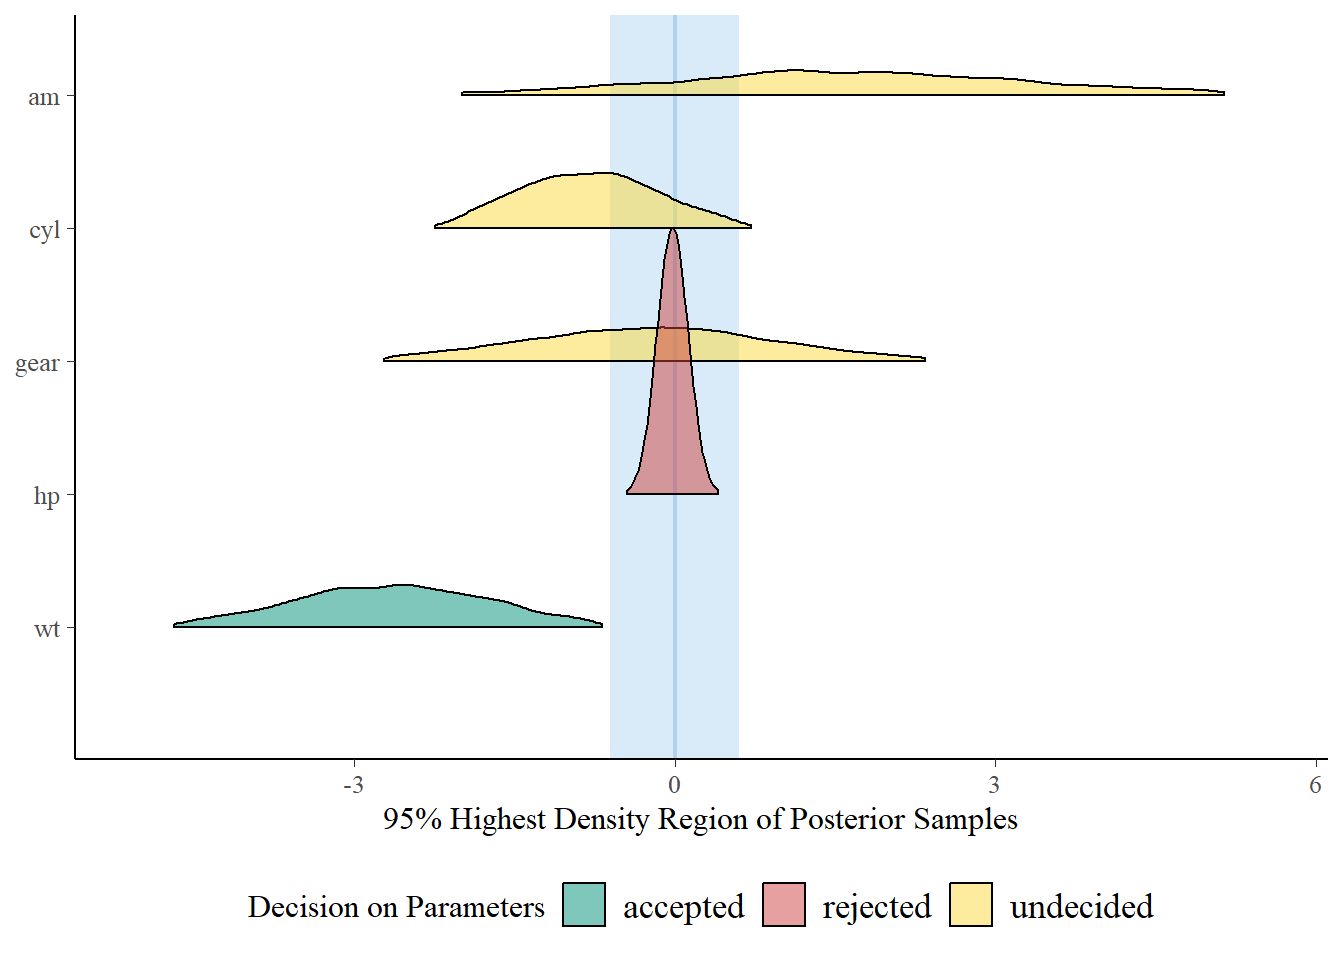
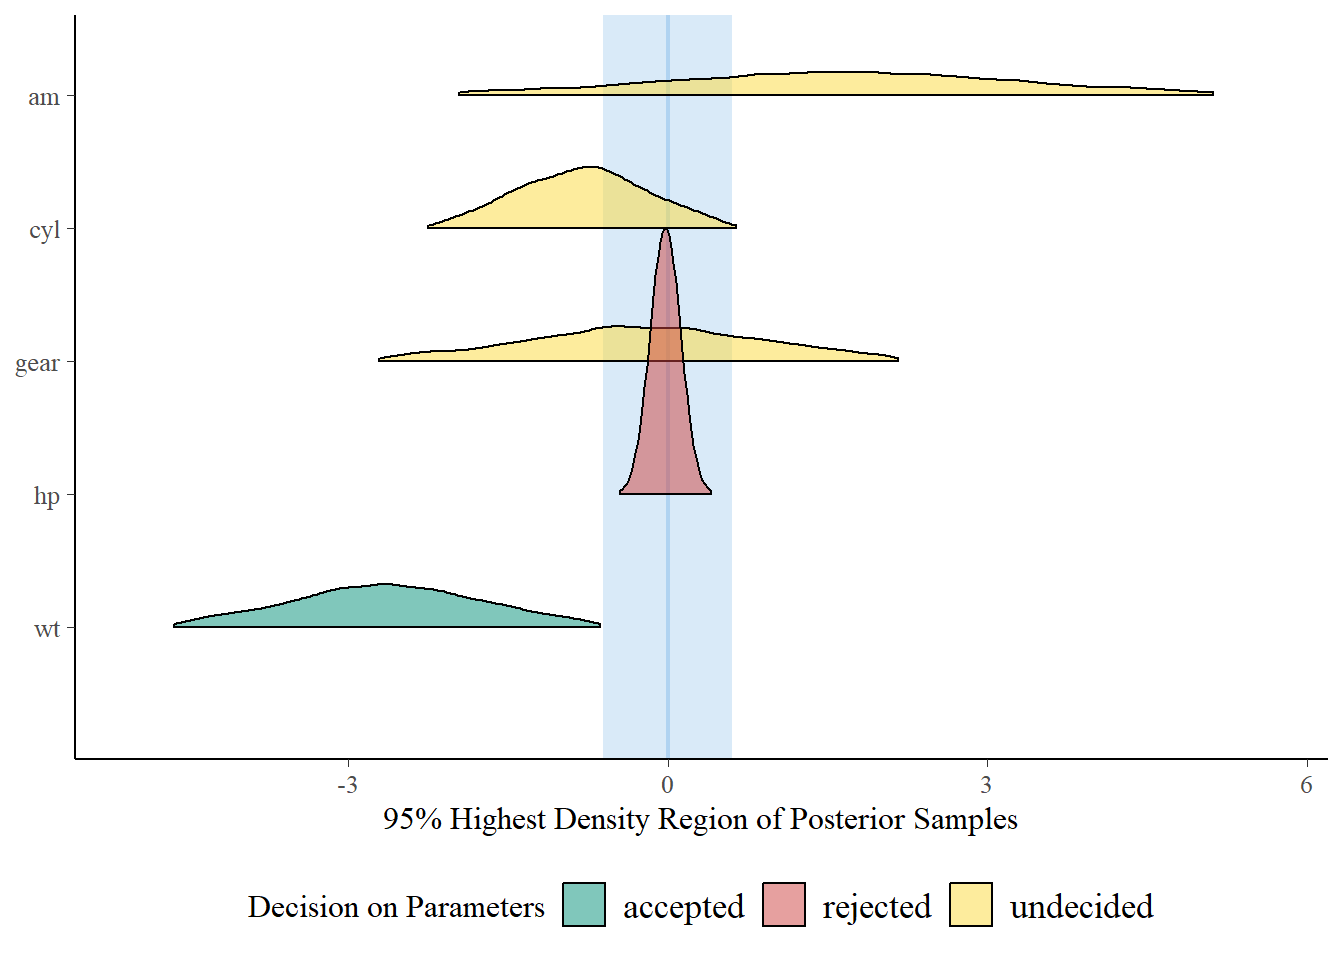
update

diff --git a/docs/ressources/index.html b/docs/ressources/index.html
@@ -24,14 +24,14 @@
 <meta name="twitter:title" content="Learn R"/>
 <meta name="twitter:description" content="Guides Here are some links to get started with R:
  R for Datascience Quick-R Datacamp EdX courses YaRrr! The Pirate&rsquo;s Guide to R LearnR Youtube Channel Yan Holtz&rsquo;s tutorials  Stay tuned Here are some links of blogs and such to keep in touch with this evolving field:
- r-bloggers r-weekly  Miscellaenous This section contains more scope-focused ressources:
- Interpretable Machine Learning book Structural Equation Modeling using Lavaan  Contribute You can contribute to this post by adding more ressources here."/>
+ r-bloggers r-weekly  Miscellaneous This section contains more scope-focused resources:
+ Interpretable Machine Learning book Structural Equation Modeling using Lavaan  Contribute You can contribute to this post by adding more resources here."/>
 
 <meta property="og:title" content="Learn R" />
 <meta property="og:description" content="Guides Here are some links to get started with R:
  R for Datascience Quick-R Datacamp EdX courses YaRrr! The Pirate&rsquo;s Guide to R LearnR Youtube Channel Yan Holtz&rsquo;s tutorials  Stay tuned Here are some links of blogs and such to keep in touch with this evolving field:
- r-bloggers r-weekly  Miscellaenous This section contains more scope-focused ressources:
- Interpretable Machine Learning book Structural Equation Modeling using Lavaan  Contribute You can contribute to this post by adding more ressources here." />
+ r-bloggers r-weekly  Miscellaneous This section contains more scope-focused resources:
+ Interpretable Machine Learning book Structural Equation Modeling using Lavaan  Contribute You can contribute to this post by adding more resources here." />
 <meta property="og:type" content="article" />
 <meta property="og:url" content="/blog/ressources/" /><meta property="og:site_name" content="easystats" />
 
@@ -209,9 +209,9 @@ evolving field:</p>
 <li><a href="https://rweekly.org"><strong>r-weekly</strong></a></li>
 </ul>
 
-<h2 id="miscellaenous">Miscellaenous</h2>
+<h2 id="miscellaneous">Miscellaneous</h2>
 
-<p>This section contains more scope-focused ressources:</p>
+<p>This section contains more scope-focused resources:</p>
 
 <ul>
 <li><a href="https://christophm.github.io/interpretable-ml-book/"><strong>Interpretable Machine Learning
@@ -221,7 +221,7 @@ book</strong></a></li>
 
 <h2 id="contribute">Contribute</h2>
 
-<p>You can contribute to this post by adding more ressources
+<p>You can contribute to this post by adding more resources
 <a href="https://github.com/easystats/blog/master/content/ressources.md">here</a>.</p>
 
   </div>

diff --git a/docs/posts/bayestestr_presentation/index.html b/docs/posts/bayestestr_presentation/index.html
@@ -251,16 +251,16 @@ equivalence_test(model)</code></pre>
 ##   ROPE: [-0.60 0.60]
 ## 
 ##    Parameter        H0 inside ROPE       95% HDI
-##  (Intercept)  rejected      0.00 % [25.15 50.08]
-##           wt  rejected      0.00 % [-4.65 -0.73]
-##          cyl undecided     37.91 % [-2.17  0.63]
-##         gear undecided     39.33 % [-2.72  2.39]
-##           am undecided     17.02 % [-2.19  5.14]
+##  (Intercept)  rejected      0.00 % [24.58 49.46]
+##           wt  rejected      0.00 % [-4.60 -0.66]
+##          cyl undecided     36.96 % [-2.15  0.52]
+##         gear undecided     40.02 % [-2.71  2.11]
+##           am undecided     17.39 % [-1.98  5.23]
 ##           hp  accepted    100.00 % [-0.06  0.01]</code></pre>
 <p>Results can also be plotted, to get a better impression of the posterior distributions and the ROPE-coverage.</p>
 <pre class="r"><code># Do the test and plot results
 plot(equivalence_test(model))</code></pre>
-<p><img src="/posts/bayestestR_presentation_files/figure-html/unnamed-chunk-8-1.png" width="672" /></p>
+<p><img src="/blog/posts/bayestestR_presentation_files/figure-html/unnamed-chunk-8-1.png" width="672" /></p>
 <p>More details about <code>bayestestR</code>’s features are comming soon, stay tuned ;)</p>
 <ul>
 <li><strong>Don’t forget to check out the</strong> <a href="https://github.com/easystats/bayestestR#documentation"><strong>documentation here</strong></a> <strong>for more!</strong></li>

diff --git a/content/posts/bayestestR_presentation.html b/content/posts/bayestestR_presentation.html
@@ -34,16 +34,16 @@ equivalence_test(model)</code></pre>
 ##   ROPE: [-0.60 0.60]
 ## 
 ##    Parameter        H0 inside ROPE       95% HDI
-##  (Intercept)  rejected      0.00 % [25.15 50.08]
-##           wt  rejected      0.00 % [-4.65 -0.73]
-##          cyl undecided     37.91 % [-2.17  0.63]
-##         gear undecided     39.33 % [-2.72  2.39]
-##           am undecided     17.02 % [-2.19  5.14]
+##  (Intercept)  rejected      0.00 % [24.58 49.46]
+##           wt  rejected      0.00 % [-4.60 -0.66]
+##          cyl undecided     36.96 % [-2.15  0.52]
+##         gear undecided     40.02 % [-2.71  2.11]
+##           am undecided     17.39 % [-1.98  5.23]
 ##           hp  accepted    100.00 % [-0.06  0.01]</code></pre>
 <p>Results can also be plotted, to get a better impression of the posterior distributions and the ROPE-coverage.</p>
 <pre class="r"><code># Do the test and plot results
 plot(equivalence_test(model))</code></pre>
-<p><img src="/posts/bayestestR_presentation_files/figure-html/unnamed-chunk-8-1.png" width="672" /></p>
+<p><img src="/blog/posts/bayestestR_presentation_files/figure-html/unnamed-chunk-8-1.png" width="672" /></p>
 <p>More details about <code>bayestestR</code>’s features are comming soon, stay tuned ;)</p>
 <ul>
 <li><strong>Don’t forget to check out the</strong> <a href="https://github.com/easystats/bayestestR#documentation"><strong>documentation here</strong></a> <strong>for more!</strong></li>

diff --git a/content/ressources.md b/content/ressources.md
@@ -24,9 +24,9 @@ evolving field:
   - [**r-bloggers**](https://www.r-bloggers.com/)
   - [**r-weekly**](https://rweekly.org )
 
-## Miscellaenous
+## Miscellaneous
 
-This section contains more scope-focused ressources:
+This section contains more scope-focused resources:
 
   - [**Interpretable Machine Learning
     book**](https://christophm.github.io/interpretable-ml-book/)
@@ -34,5 +34,5 @@ This section contains more scope-focused ressources:
 
 ## Contribute
 
-You can contribute to this post by adding more ressources
+You can contribute to this post by adding more resources
 [here](https://github.com/easystats/blog/master/content/ressources.md).
